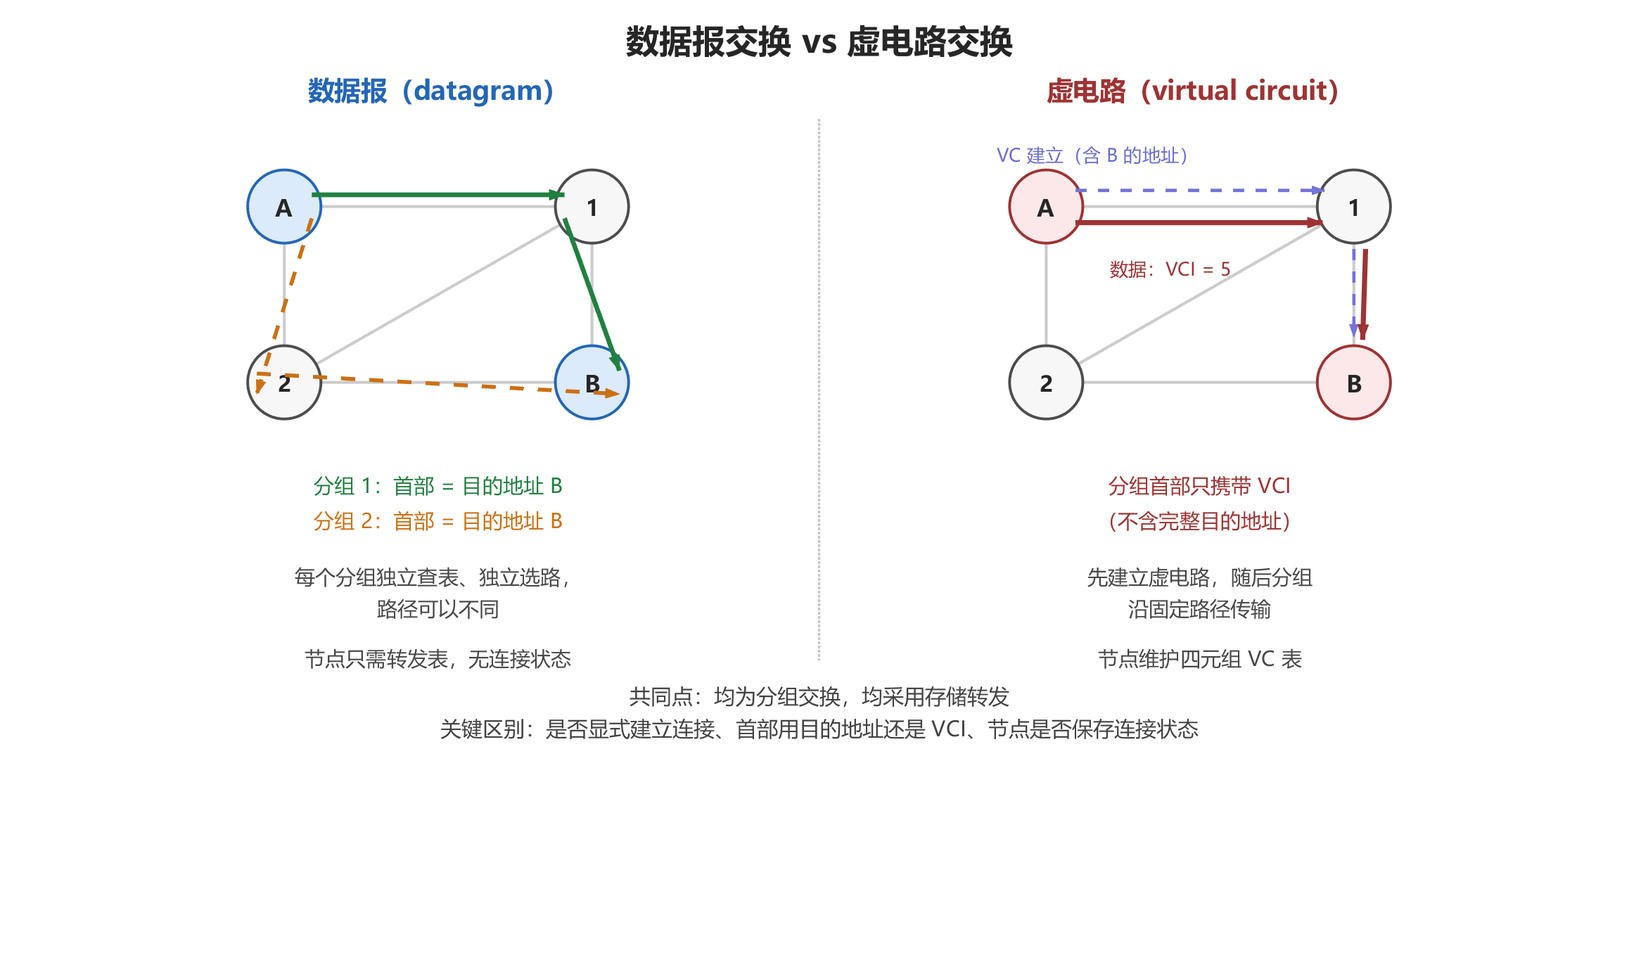
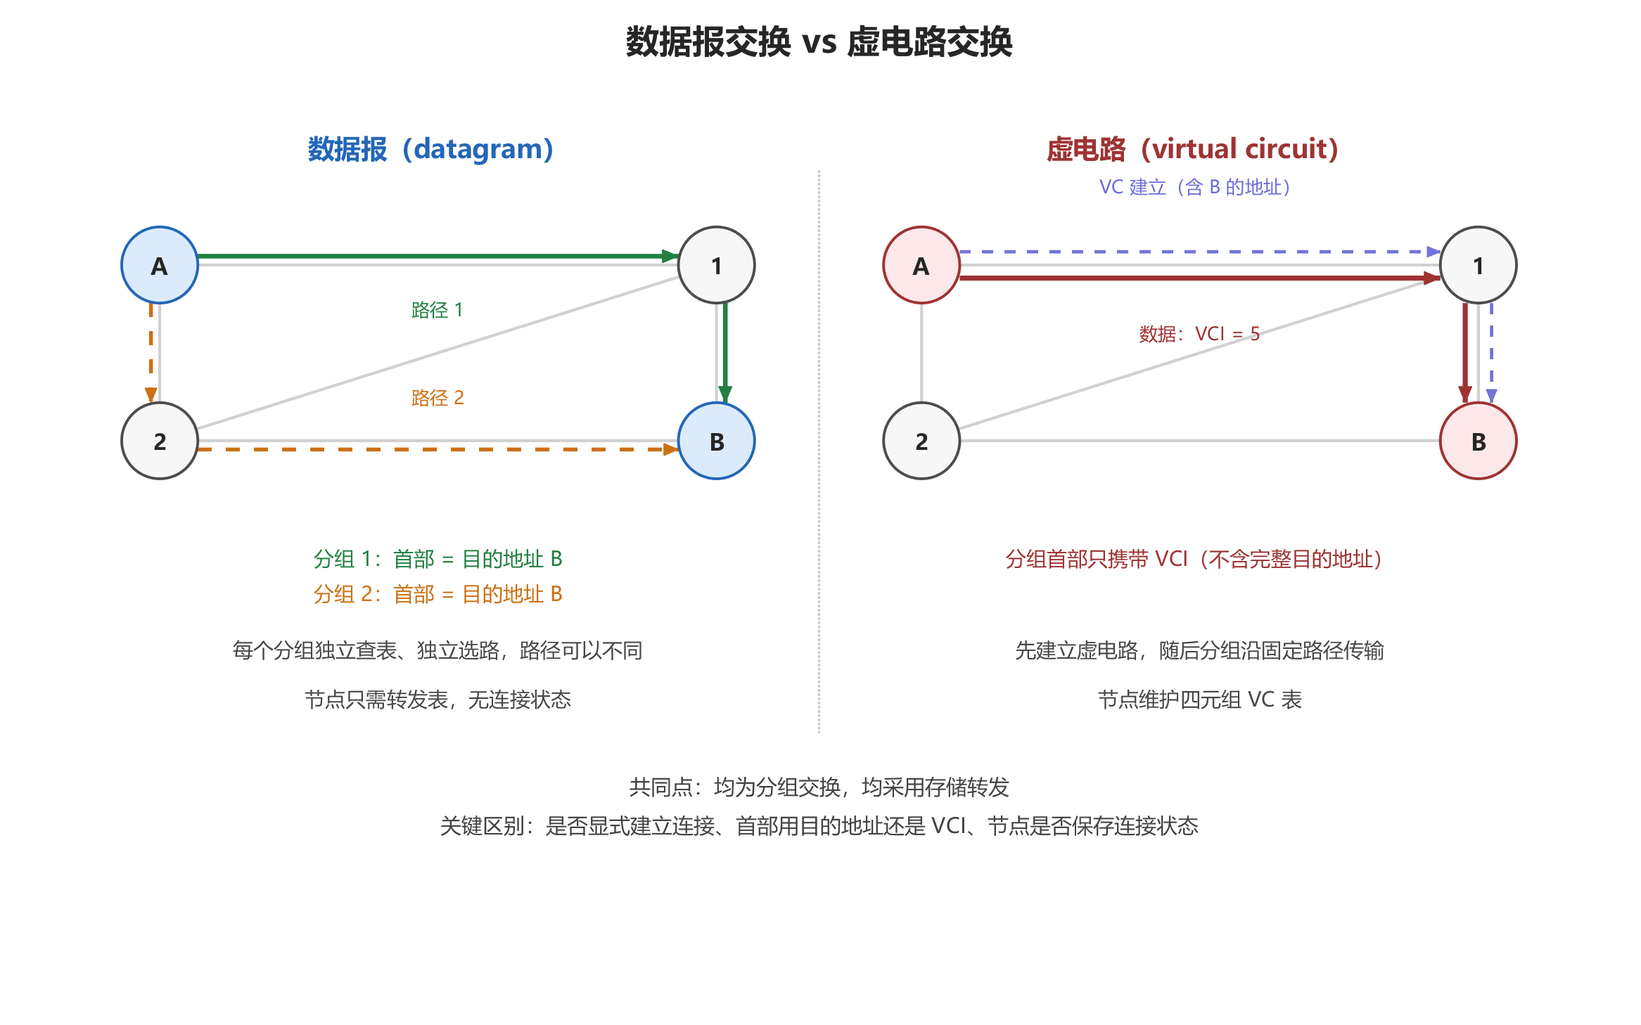
style: orthogonalize example flowchart arrows

diff --git a/docs/computer-network-example/figs/src/fig04_datagram_vc.m b/docs/computer-network-example/figs/src/fig04_datagram_vc.m
@@ -1,69 +1,70 @@
 function fig04_datagram_vc
-% 数据报交换 vs 虚电路交换
-[f,ax]=mnewfig(1120,660);
-W=1120;H=660;
+% 数据报交换 vs 虚电路交换（正交对齐版）
+[f,ax]=mnewfig(1120,700);
+W=1120;H=700;
 mtext(ax,W/2,H-26,'数据报交换 vs 虚电路交换','fontsize',17,'fontweight','bold');
 
-r=25;
-% ---------- 左：数据报 ----------
-cxL=300; yT=520; yB=400;
-A=[cxL-105 yT]; N1=[cxL+105 yT]; N2=[cxL-105 yB]; Bn=[cxL+105 yB];
-mtext(ax,cxL,600,'数据报（datagram）','fontsize',13.5,'fontweight','bold','color',[0.14 0.40 0.72]);
-mlink(ax,A(1),A(2),N1(1),N1(2),'color',[0.80 0.80 0.80],'linewidth',1.5);
-mlink(ax,N2(1),N2(2),Bn(1),Bn(2),'color',[0.80 0.80 0.80],'linewidth',1.5);
-mlink(ax,A(1),A(2),N2(1),N2(2),'color',[0.80 0.80 0.80],'linewidth',1.5);
-mlink(ax,N1(1),N1(2),Bn(1),Bn(2),'color',[0.80 0.80 0.80],'linewidth',1.5);
-mlink(ax,N1(1),N1(2),N2(1),N2(2),'color',[0.80 0.80 0.80],'linewidth',1.5);
+r=26;
+% 统一的四节点矩形布局：上排 A--1 / M1，下排 2--B / M2
+xl=110; xr=490; yt=520; yb=400;
+
+% ================= 左：数据报 =================
+mtext(ax,(xl+xr)/2,600,'数据报（datagram）','fontsize',13.5,'fontweight','bold','color',[0.14 0.40 0.72]);
+A=[xl yt]; N1=[xr yt]; N2=[xl yb]; Bn=[xr yb];
+% 物理链路（浅灰）
+mlink(ax,A(1),A(2),N1(1),N1(2),'color',[0.82 0.82 0.82],'linewidth',1.5);
+mlink(ax,A(1),A(2),N2(1),N2(2),'color',[0.82 0.82 0.82],'linewidth',1.5);
+mlink(ax,N2(1),N2(2),Bn(1),Bn(2),'color',[0.82 0.82 0.82],'linewidth',1.5);
+mlink(ax,N1(1),N1(2),Bn(1),Bn(2),'color',[0.82 0.82 0.82],'linewidth',1.5);
+mlink(ax,N1(1),N1(2),N2(1),N2(2),'color',[0.82 0.82 0.82],'linewidth',1.5);
+% 路径 1：A -> 1 -> B（沿链路，圆弧端点）
+mcedge(ax,A,N1,r,r,'color',[0.13 0.50 0.25],'linewidth',2.4,'head',11,'offset',6);
+mcedge(ax,N1,Bn,r,r,'color',[0.13 0.50 0.25],'linewidth',2.4,'head',11,'offset',6);
+% 路径 2：A -> 2 -> B（沿链路，反向偏移）
+mcedge(ax,A,N2,r,r,'color',[0.80 0.44 0.08],'linewidth',2.0,'head',10,'dash','--','offset',-6);
+mcedge(ax,N2,Bn,r,r,'color',[0.80 0.44 0.08],'linewidth',2.0,'head',10,'dash','--','offset',-6);
 mnode(ax,A(1),A(2),r,'A','facecolor',[0.86 0.92 0.99],'edgecolor',[0.14 0.40 0.72]);
 mnode(ax,Bn(1),Bn(2),r,'B','facecolor',[0.86 0.92 0.99],'edgecolor',[0.14 0.40 0.72]);
 mnode(ax,N1(1),N1(2),r,'1','facecolor',[0.97 0.97 0.97],'fontsize',11);
 mnode(ax,N2(1),N2(2),r,'2','facecolor',[0.97 0.97 0.97],'fontsize',11);
-% 路径1：A-1-B（实线绿）
-marrow(ax,A(1)+r*0.75,A(2)+8,N1(1)-r*0.75,N1(2)+8,'color',[0.13 0.50 0.25],'linewidth',2.4,'head',11);
-marrow(ax,N1(1)-r*0.75,N1(2)-8,Bn(1)+r*0.75,Bn(2)+8,'color',[0.13 0.50 0.25],'linewidth',2.4,'head',11);
-% 路径2：A-2-B（虚线橙）
-marrow(ax,A(1)+r*0.75,A(2)-8,N2(1)-r*0.75,N2(2)-8,'color',[0.80 0.44 0.08],'linewidth',2.0,'head',10,'dash','--');
-marrow(ax,N2(1)-r*0.75,N2(2)+6,Bn(1)+r*0.75,Bn(2)-8,'color',[0.80 0.44 0.08],'linewidth',2.0,'head',10,'dash','--');
+mtext(ax,(xl+xr)/2,yt-30,'路径 1','fontsize',9.5,'color',[0.13 0.50 0.25]);
+mtext(ax,(xl+xr)/2,yb+30,'路径 2','fontsize',9.5,'color',[0.80 0.44 0.08]);
 
-mtext(ax,cxL,330,'分组 1：首部 = 目的地址 B','fontsize',10.5,'color',[0.13 0.50 0.25]);
-mtext(ax,cxL,306,'分组 2：首部 = 目的地址 B','fontsize',10.5,'color',[0.80 0.44 0.08]);
-mtext(ax,cxL,268,'每个分组独立查表、独立选路，','fontsize',10.5,'color',[0.28 0.28 0.28]);
-mtext(ax,cxL,246,'路径可以不同','fontsize',10.5,'color',[0.28 0.28 0.28]);
-mtext(ax,cxL,212,'节点只需转发表，无连接状态','fontsize',10.5,'color',[0.28 0.28 0.28]);
+mtext(ax,300,320,'分组 1：首部 = 目的地址 B','fontsize',10.5,'color',[0.13 0.50 0.25]);
+mtext(ax,300,296,'分组 2：首部 = 目的地址 B','fontsize',10.5,'color',[0.80 0.44 0.08]);
+mtext(ax,300,258,'每个分组独立查表、独立选路，路径可以不同','fontsize',10.5,'color',[0.28 0.28 0.28]);
+mtext(ax,300,224,'节点只需转发表，无连接状态','fontsize',10.5,'color',[0.28 0.28 0.28]);
 
-% ---------- 右：虚电路 ----------
-cx2=820;
-A2=[cx2-105 yT]; M1=[cx2+105 yT]; M2=[cx2-105 yB]; B2=[cx2+105 yB];
-mtext(ax,cx2,600,'虚电路（virtual circuit）','fontsize',13.5,'fontweight','bold','color',[0.62 0.20 0.20]);
-mlink(ax,A2(1),A2(2),M1(1),M1(2),'color',[0.80 0.80 0.80],'linewidth',1.5);
-mlink(ax,M2(1),M2(2),B2(1),B2(2),'color',[0.80 0.80 0.80],'linewidth',1.5);
-mlink(ax,A2(1),A2(2),M2(1),M2(2),'color',[0.80 0.80 0.80],'linewidth',1.5);
-mlink(ax,M1(1),M1(2),B2(1),B2(2),'color',[0.80 0.80 0.80],'linewidth',1.5);
-mlink(ax,M1(1),M1(2),M2(1),M2(2),'color',[0.80 0.80 0.80],'linewidth',1.5);
+% ================= 右：虚电路 =================
+xl2=630; xr2=1010;
+mtext(ax,(xl2+xr2)/2,600,'虚电路（virtual circuit）','fontsize',13.5,'fontweight','bold','color',[0.62 0.20 0.20]);
+A2=[xl2 yt]; M1=[xr2 yt]; M2=[xl2 yb]; B2=[xr2 yb];
+mlink(ax,A2(1),A2(2),M1(1),M1(2),'color',[0.82 0.82 0.82],'linewidth',1.5);
+mlink(ax,A2(1),A2(2),M2(1),M2(2),'color',[0.82 0.82 0.82],'linewidth',1.5);
+mlink(ax,M2(1),M2(2),B2(1),B2(2),'color',[0.82 0.82 0.82],'linewidth',1.5);
+mlink(ax,M1(1),M1(2),B2(1),B2(2),'color',[0.82 0.82 0.82],'linewidth',1.5);
+mlink(ax,M1(1),M1(2),M2(1),M2(2),'color',[0.82 0.82 0.82],'linewidth',1.5);
+% VC 建立：A->1 上方虚线；1->B 沿链路
+mcedge(ax,A2,M1,r,r,'color',[0.45 0.45 0.85],'linewidth',1.7,'head',9,'dash','--','offset',9);
+mcedge(ax,M1,B2,r,r,'color',[0.45 0.45 0.85],'linewidth',1.7,'head',9,'dash','--','offset',9);
+% 数据：A->1 下方实线；1->B 沿链路另一侧
+mcedge(ax,A2,M1,r,r,'color',[0.62 0.20 0.20],'linewidth',2.6,'head',11,'offset',-9);
+mcedge(ax,M1,B2,r,r,'color',[0.62 0.20 0.20],'linewidth',2.6,'head',11,'offset',-9);
 mnode(ax,A2(1),A2(2),r,'A','facecolor',[0.99 0.91 0.91],'edgecolor',[0.62 0.20 0.20]);
 mnode(ax,B2(1),B2(2),r,'B','facecolor',[0.99 0.91 0.91],'edgecolor',[0.62 0.20 0.20]);
 mnode(ax,M1(1),M1(2),r,'1','facecolor',[0.97 0.97 0.97],'fontsize',11);
 mnode(ax,M2(1),M2(2),r,'2','facecolor',[0.97 0.97 0.97],'fontsize',11);
-% VC 建立（上方虚线）
-marrow(ax,A2(1)+r*0.8,A2(2)+11,M1(1)-r*0.8,M1(2)+11,'color',[0.45 0.45 0.85],'linewidth',1.7,'head',9,'dash','--');
-marrow(ax,M1(1),M1(2)-r-4,B2(1),B2(2)+r+6,'color',[0.45 0.45 0.85],'linewidth',1.7,'head',9,'dash','--');
-% 数据（下方实线）
-marrow(ax,A2(1)+r*0.8,A2(2)-11,M1(1)-r*0.85,M1(2)-11,'color',[0.62 0.20 0.20],'linewidth',2.6,'head',11);
-marrow(ax,M1(1)+8,M1(2)-r-4,B2(1)+6,B2(2)+r+4,'color',[0.62 0.20 0.20],'linewidth',2.6,'head',11);
-mtext(ax,cx2-70,556,'VC 建立（含 B 的地址）','fontsize',9.5,'color',[0.42 0.42 0.85]);
-mtext(ax,cx2-20,478,'数据：VCI = 5','fontsize',9.5,'color',[0.62 0.20 0.20]);
+mtext(ax,(xl2+xr2)/2,yt+54,'VC 建立（含 B 的地址）','fontsize',9.5,'color',[0.42 0.42 0.85]);
+mtext(ax,(xl2+xr2)/2,yt-46,'数据：VCI = 5','fontsize',9.5,'color',[0.62 0.20 0.20]);
 
-mtext(ax,cx2,330,'分组首部只携带 VCI','fontsize',10.5,'color',[0.62 0.20 0.20]);
-mtext(ax,cx2,306,'（不含完整目的地址）','fontsize',10.5,'color',[0.62 0.20 0.20]);
-mtext(ax,cx2,268,'先建立虚电路，随后分组','fontsize',10.5,'color',[0.28 0.28 0.28]);
-mtext(ax,cx2,246,'沿固定路径传输','fontsize',10.5,'color',[0.28 0.28 0.28]);
-mtext(ax,cx2,212,'节点维护四元组 VC 表','fontsize',10.5,'color',[0.28 0.28 0.28]);
+mtext(ax,820,320,'分组首部只携带 VCI（不含完整目的地址）','fontsize',10.5,'color',[0.62 0.20 0.20]);
+mtext(ax,820,258,'先建立虚电路，随后分组沿固定路径传输','fontsize',10.5,'color',[0.28 0.28 0.28]);
+mtext(ax,820,224,'节点维护四元组 VC 表','fontsize',10.5,'color',[0.28 0.28 0.28]);
 
-% 中间分隔
-plot(ax,[W/2 W/2],[210 580],':','Color',[0.78 0.78 0.78],'LineWidth',1.2);
-mtext(ax,W/2,186,'共同点：均为分组交换，均采用存储转发', ...
-  'fontsize',10.8,'color',[0.26 0.26 0.26]);
-mtext(ax,W/2,164,'关键区别：是否显式建立连接、首部用目的地址还是 VCI、节点是否保存连接状态', ...
+% 分隔与结论
+plot(ax,[W/2 W/2],[200 585],':','Color',[0.80 0.80 0.80],'LineWidth',1.2);
+mtext(ax,W/2,164,'共同点：均为分组交换，均采用存储转发','fontsize',10.8,'color',[0.26 0.26 0.26]);
+mtext(ax,W/2,138,'关键区别：是否显式建立连接、首部用目的地址还是 VCI、节点是否保存连接状态', ...
   'fontsize',10.8,'color',[0.26 0.26 0.26]);
 msave(f,'fig04_datagram_vc.png');
 end

diff --git a/docs/computer-network-example/figs/src/fig29_flow.m b/docs/computer-network-example/figs/src/fig29_flow.m
@@ -1,54 +1,81 @@
 function fig29_flow
-% CSMA/CD 与 CSMA/CA 流程对比
-[f,ax]=mnewfig(1100,780);
-W=1100;H=780;
+% CSMA/CD 与 CSMA/CA 流程对比（严格网格对齐版）
+[f,ax]=mnewfig(1180,840);
+W=1180;H=840;
 mtext(ax,W/2,H-26,'CSMA/CD 与 CSMA/CA 流程对比','fontsize',17,'fontweight','bold');
-flowcd(ax,80); flowca(ax,600);
+
+Y.start=720; Y.d1=630; Y.branch=540; Y.d2=448; Y.end=358; Y.extra=268;
+
+flowcd(ax,300,Y);
+flowca(ax,860,Y);
+
 msave(f,'fig29_flow.png');
 end
 
-function flowcd(ax,x0)
-mtext(ax,x0+200,700,'CSMA/CD（有线以太网）','fontsize',12.5,'fontweight','bold','color',[0.14 0.40 0.72]);
-cx=x0+200;
-mbox(ax,cx-85,640,170,40,'有帧要发送','fontsize',10.5);
-mdiamond(ax,cx,575,190,70,'侦听：信道空闲？','fontsize',10);
-mbox(ax,cx+80,485,160,40,'等候至空闲','fontsize',10);
-mbox(ax,cx-150,485,140,40,'立即发送','fontsize',10);
-mdiamond(ax,cx,415,190,70,'检测到冲突？','fontsize',10);
-mbox(ax,cx-150,330,150,40,'发送完成','fontsize',10);
-mbox(ax,cx+90,330,170,40,'发干扰信号并停止','fontsize',9.5,'facecolor',[0.99 0.90 0.90],'edgecolor',[0.70 0.25 0.25]);
-mdiamond(ax,cx+90,255,170,64,'重试 < 16？','fontsize',9.8);
-mbox(ax,cx+90,175,170,40,'指数回退，重新侦听','fontsize',9.5,'facecolor',[0.99 0.92 0.86],'edgecolor',[0.62 0.45 0.20]);
-mbox(ax,cx+240,255,110,40,'放弃','fontsize',10);
-marrow(ax,cx,640,cx,610,'color',[0.4 0.4 0.4],'linewidth',1.3);
-marrow(ax,cx,540,cx+80,525,'color',[0.4 0.4 0.4],'linewidth',1.3);
-marrow(ax,cx-95,575,cx-150,525,'color',[0.4 0.4 0.4],'linewidth',1.3);
-marrow(ax,cx-80,485,cx,450,'color',[0.4 0.4 0.4],'linewidth',1.3);
-marrow(ax,cx+80,485,cx,450,'color',[0.4 0.4 0.4],'linewidth',1.3);
-marrow(ax,cx-95,415,cx-150,370,'color',[0.4 0.4 0.4],'linewidth',1.3);
-marrow(ax,cx+95,415,cx+90,370,'color',[0.4 0.4 0.4],'linewidth',1.3);
-marrow(ax,cx+90,310,cx+90,287,'color',[0.4 0.4 0.4],'linewidth',1.3);
-marrow(ax,cx+90,223,cx+90,195,'color',[0.4 0.4 0.4],'linewidth',1.3);
-marrow(ax,cx+175,255,cx+240,255,'color',[0.4 0.4 0.4],'linewidth',1.3);
+function flowcd(ax,c,Y)
+mtext(ax,c,768,'CSMA/CD（有线以太网）','fontsize',12.5,'fontweight','bold','color',[0.14 0.40 0.72]);
+L=c-140; R=c+140;
+mbox(ax,c-85,Y.start-22,170,44,'有帧要发送','fontsize',10.5,'fontweight','bold');
+mdiamond(ax,c,Y.d1,240,80,'侦听：信道空闲？','fontsize',10);
+mbox(ax,L-80,Y.branch-22,160,44,'立即发送','fontsize',10);
+mbox(ax,R-85,Y.branch-22,170,44,'等候至空闲','fontsize',10);
+mdiamond(ax,c,Y.d2,240,80,'检测到冲突？','fontsize',10);
+mbox(ax,L-80,Y.end-22,160,44,'发送完成','fontsize',10);
+mbox(ax,R-95,Y.end-22,190,44,'发干扰信号并停止','fontsize',9.5, ...
+  'facecolor',[0.99 0.90 0.90],'edgecolor',[0.70 0.25 0.25]);
+mdiamond(ax,R,Y.extra,200,72,'重试 < 16？','fontsize',9.8);
+mbox(ax,R+130,Y.extra-22,140,44,'放弃','fontsize',10);
+mbox(ax,R-95,Y.extra-120,190,44,'指数回退，重新侦听','fontsize',9.5, ...
+  'facecolor',[0.99 0.92 0.86],'edgecolor',[0.62 0.45 0.20]);
+
+melbow(ax,[c Y.start-22; c Y.d1+40],'color',[0.4 0.4 0.4],'linewidth',1.5);
+melbow(ax,[c Y.d1-40; c Y.d2+40],'color',[0.4 0.4 0.4],'linewidth',1.5);
+melbow(ax,[c-120 Y.d1; L Y.d1; L Y.branch+22],'color',[0.4 0.4 0.4],'linewidth',1.5);
+melbow(ax,[c+120 Y.d1; R Y.d1; R Y.branch+22],'color',[0.4 0.4 0.4],'linewidth',1.5);
+melbow(ax,[L Y.branch-22; L Y.d2; c-120 Y.d2],'color',[0.4 0.4 0.4],'linewidth',1.5);
+melbow(ax,[R Y.branch-22; R Y.d2; c+120 Y.d2],'color',[0.4 0.4 0.4],'linewidth',1.5);
+melbow(ax,[c-120 Y.d2; L Y.d2; L Y.end+22],'color',[0.4 0.4 0.4],'linewidth',1.5);
+melbow(ax,[c+120 Y.d2; R Y.d2; R Y.end+22],'color',[0.4 0.4 0.4],'linewidth',1.5);
+% 重试判定：是 -> 指数回退；否 -> 放弃
+melbow(ax,[R Y.end-22; R Y.extra+36],'color',[0.4 0.4 0.4],'linewidth',1.5);
+melbow(ax,[R+100 Y.extra; R+130 Y.extra],'color',[0.4 0.4 0.4],'linewidth',1.5);
+melbow(ax,[R Y.extra-36; R Y.extra-98],'color',[0.4 0.4 0.4],'linewidth',1.5);
+
+mtext(ax,c-150,Y.d1+16,'空闲','fontsize',9.5,'color',[0.20 0.52 0.32]);
+mtext(ax,c+150,Y.d1+16,'忙','fontsize',9.5,'color',[0.80 0.44 0.10]);
+mtext(ax,c-150,Y.d2+18,'否','fontsize',9.5);
+mtext(ax,c+150,Y.d2+18,'是','fontsize',9.5);
+mtext(ax,R+114,Y.extra+18,'否','fontsize',9.5);
+mtext(ax,R+14,Y.extra-66,'是','fontsize',9.5,'halign','left');
 end
 
-function flowca(ax,x0)
-mtext(ax,x0+200,700,'CSMA/CA（无线局域网）','fontsize',12.5,'fontweight','bold','color',[0.62 0.20 0.20]);
-cx=x0+200;
-mbox(ax,cx-85,640,170,40,'有帧要发送','fontsize',10.5);
-mdiamond(ax,cx,575,200,70,'侦听空闲 DIFS？','fontsize',10);
-mbox(ax,cx+90,485,160,40,'随机回退','fontsize',10,'facecolor',[0.99 0.92 0.86],'edgecolor',[0.62 0.45 0.20]);
-mbox(ax,cx-150,485,140,40,'发送整帧','fontsize',10);
-mdiamond(ax,cx,415,190,70,'收到 ACK？','fontsize',10);
-mbox(ax,cx-150,330,150,40,'完成','fontsize',10);
-mbox(ax,cx+90,330,180,40,'扩大回退范围重试','fontsize',9.5,'facecolor',[0.99 0.90 0.90],'edgecolor',[0.70 0.25 0.25]);
-mtext(ax,cx,290,'（可选）先交换 RTS/CTS','fontsize',9.5,'color',[0.62 0.20 0.20]);
-mtext(ax,cx,266,'收到 CTS 的邻近节点设置 NAV','fontsize',9,'color',[0.40 0.40 0.40]);
-marrow(ax,cx,640,cx,610,'color',[0.4 0.4 0.4],'linewidth',1.3);
-marrow(ax,cx,540,cx+90,525,'color',[0.4 0.4 0.4],'linewidth',1.3);
-marrow(ax,cx-100,575,cx-150,525,'color',[0.4 0.4 0.4],'linewidth',1.3);
-marrow(ax,cx-80,485,cx,450,'color',[0.4 0.4 0.4],'linewidth',1.3);
-marrow(ax,cx+90,485,cx,450,'color',[0.4 0.4 0.4],'linewidth',1.3);
-marrow(ax,cx-95,415,cx-150,370,'color',[0.4 0.4 0.4],'linewidth',1.3);
-marrow(ax,cx+95,415,cx+90,370,'color',[0.4 0.4 0.4],'linewidth',1.3);
+function flowca(ax,c,Y)
+mtext(ax,c,768,'CSMA/CA（无线局域网）','fontsize',12.5,'fontweight','bold','color',[0.62 0.20 0.20]);
+L=c-140; R=c+140;
+mbox(ax,c-85,Y.start-22,170,44,'有帧要发送','fontsize',10.5,'fontweight','bold');
+mdiamond(ax,c,Y.d1,250,80,'侦听空闲 DIFS？','fontsize',10);
+mbox(ax,L-80,Y.branch-22,160,44,'发送整帧','fontsize',10);
+mbox(ax,R-85,Y.branch-22,170,44,'随机回退','fontsize',10, ...
+  'facecolor',[0.99 0.92 0.86],'edgecolor',[0.62 0.45 0.20]);
+mdiamond(ax,c,Y.d2,240,80,'收到 ACK？','fontsize',10);
+mbox(ax,L-80,Y.end-22,160,44,'完成','fontsize',10);
+mbox(ax,R-95,Y.end-22,190,44,'扩大回退范围重试','fontsize',9.5, ...
+  'facecolor',[0.99 0.90 0.90],'edgecolor',[0.70 0.25 0.25]);
+
+melbow(ax,[c Y.start-22; c Y.d1+40],'color',[0.4 0.4 0.4],'linewidth',1.5);
+melbow(ax,[c Y.d1-40; c Y.d2+40],'color',[0.4 0.4 0.4],'linewidth',1.5);
+melbow(ax,[c-125 Y.d1; L Y.d1; L Y.branch+22],'color',[0.4 0.4 0.4],'linewidth',1.5);
+melbow(ax,[c+125 Y.d1; R Y.d1; R Y.branch+22],'color',[0.4 0.4 0.4],'linewidth',1.5);
+melbow(ax,[L Y.branch-22; L Y.d2; c-120 Y.d2],'color',[0.4 0.4 0.4],'linewidth',1.5);
+melbow(ax,[R Y.branch-22; R Y.d2; c+120 Y.d2],'color',[0.4 0.4 0.4],'linewidth',1.5);
+melbow(ax,[c-120 Y.d2; L Y.d2; L Y.end+22],'color',[0.4 0.4 0.4],'linewidth',1.5);
+melbow(ax,[c+120 Y.d2; R Y.d2; R Y.end+22],'color',[0.4 0.4 0.4],'linewidth',1.5);
+
+mtext(ax,c-150,Y.d1+16,'是','fontsize',9.5,'color',[0.20 0.52 0.32]);
+mtext(ax,c+150,Y.d1+16,'否','fontsize',9.5,'color',[0.80 0.44 0.10]);
+mtext(ax,c-150,Y.d2+18,'是','fontsize',9.5);
+mtext(ax,c+150,Y.d2+18,'否','fontsize',9.5);
+
+mtext(ax,c,Y.end-128,'（可选）先交换 RTS/CTS','fontsize',9.5,'color',[0.62 0.20 0.20]);
+mtext(ax,c,Y.end-152,'收到 CTS 的邻近节点设置 NAV','fontsize',9,'color',[0.40 0.40 0.40]);
 end

diff --git a/docs/computer-network-example/figs/src/fig28_switch.m b/docs/computer-network-example/figs/src/fig28_switch.m
@@ -1,48 +1,57 @@
 function fig28_switch
-% 交换机自学习与帧转发（清晰分支布局）
-[f,ax]=mnewfig(980,760);
-W=980;H=760;
-mtext(ax,W/2,H-26,'以太网交换机：自学习与帧转发','fontsize',17,'fontweight','bold');
+% 交换机自学习与帧转发（严格网格对齐版）
+[f,ax]=mnewfig(1080,900);
+W=1080;H=900;
+mtext(ax,W/2,H-28,'以太网交换机：自学习与帧转发','fontsize',17,'fontweight','bold');
 
-cx=420;
-% 主流程
-mbox(ax,cx-100,640,200,46,'收到一帧','fontsize',11.5,'fontweight','bold');
-mbox(ax,cx-150,560,300,46,'学习：源 MAC 与 输入端口','fontsize',11, ...
+% 列坐标
+cMain=470;   % 主列
+cLeft=250;   % 左侧“是”分支列
+cDiscard=100;   % 与第二判定框左顶点对齐
+cRight=820;  % 右侧“否”分支列
+% 行坐标（自下而上）
+yStart=800; yLearn=700; yDecide=590; yLookup=470;
+yDecide2=360; yEnd=240; yFlood=470;
+
+% 节点
+mbox(ax,cMain-110,yStart-23,220,46,'收到一帧','fontsize',11.5,'fontweight','bold');
+mbox(ax,cMain-170,yLearn-23,340,46,'学习：源 MAC 与 输入端口','fontsize',11, ...
   'facecolor',[0.86 0.94 0.86],'edgecolor',[0.20 0.52 0.32]);
-mdiamond(ax,cx,480,230,78,'转发表中有目的 MAC？','fontsize',10.8);
-
-% 是分支（左下）
-mbox(ax,cx-210,360,180,46,'查表得到输出端口','fontsize',10.5);
-mdiamond(ax,cx-120,280,200,72,'输出端口 = 输入端口？','fontsize',9.8);
-mbox(ax,cx-340,200,120,44,'丢弃','fontsize',10.5, ...
+mdiamond(ax,cMain,yDecide,260,84,'转发表中有目的 MAC？','fontsize',10.5);
+mbox(ax,cLeft-110,yLookup-23,220,46,'查表得到输出端口','fontsize',10.5);
+mdiamond(ax,cLeft,yDecide2,300,86,'输出端口 = 输入端口？','fontsize',9.8);
+mbox(ax,cDiscard-70,yEnd-22,140,44,'丢弃','fontsize',10.5, ...
   'facecolor',[0.97 0.90 0.90],'edgecolor',[0.70 0.25 0.25]);
-mbox(ax,cx-140,200,150,44,'从该端口转发','fontsize',10.5, ...
+mbox(ax,cLeft+150-90,yEnd-22,180,44,'从该端口转发','fontsize',10.5, ...
   'facecolor',[0.86 0.94 0.86],'edgecolor',[0.20 0.52 0.32]);
-
-% 否分支（右侧）
-mbox(ax,cx+150,420,190,46,'洪泛：除输入端口外','fontsize',10.2, ...
+mbox(ax,cRight-120,yFlood-23,240,46,'洪泛：除输入端口外','fontsize',10.2, ...
   'facecolor',[0.99 0.92 0.86],'edgecolor',[0.62 0.45 0.20]);
-mtext(ax,cx+245,396,'向所有其它端口转发','fontsize',9.5,'color',[0.55 0.40 0.15]);
+mtext(ax,cRight,yFlood-52,'向所有其它端口转发','fontsize',9.5,'color',[0.55 0.40 0.15]);
 
-% 连线
-marrow(ax,cx,640,cx,608,'color',[0.40 0.40 0.40],'linewidth',1.5);
-marrow(ax,cx,560,cx,520,'color',[0.40 0.40 0.40],'linewidth',1.5);
-% 是
-marrow(ax,cx-115,465,cx-210,408,'color',[0.40 0.40 0.40],'linewidth',1.5);
-mtext(ax,cx-190,452,'是','fontsize',10,'color',[0.20 0.52 0.32]);
-% 否
-marrow(ax,cx+115,465,cx+190,468,'color',[0.40 0.40 0.40],'linewidth',1.5);
-mtext(ax,cx+150,492,'否','fontsize',10,'color',[0.80 0.44 0.10]);
-% 查表→判定
-marrow(ax,cx-120,360,cx-120,318,'color',[0.40 0.40 0.40],'linewidth',1.5);
-% 判定→丢弃/转发
-marrow(ax,cx-210,265,cx-280,245,'color',[0.40 0.40 0.40],'linewidth',1.4);
-mtext(ax,cx-270,270,'是','fontsize',9.5);
-marrow(ax,cx-30,265,cx-70,245,'color',[0.40 0.40 0.40],'linewidth',1.4);
-mtext(ax,cx-50,272,'否','fontsize',9.5);
+% 连线（全部正交）
+% 收到一帧 -> 学习
+melbow(ax,[cMain yStart-23; cMain yLearn+23],'color',[0.40 0.40 0.40],'linewidth',1.6);
+% 学习 -> 判定
+melbow(ax,[cMain yLearn-23; cMain yDecide+42],'color',[0.40 0.40 0.40],'linewidth',1.6);
+% 判定“是” -> 左列 -> 查表
+melbow(ax,[cMain-130 yDecide; cLeft yDecide; cLeft yLookup+23],'color',[0.40 0.40 0.40],'linewidth',1.6);
+% 判定“否” -> 右列 -> 洪泛
+melbow(ax,[cMain+130 yDecide; cRight yDecide; cRight yFlood+23],'color',[0.40 0.40 0.40],'linewidth',1.6);
+% 查表 -> 第二判定
+melbow(ax,[cLeft yLookup-23; cLeft yDecide2+40],'color',[0.40 0.40 0.40],'linewidth',1.6);
+% 第二判定“是” -> 丢弃
+melbow(ax,[cLeft-150 yDecide2; cDiscard yDecide2; cDiscard yEnd+22],'color',[0.40 0.40 0.40],'linewidth',1.5);
+% 第二判定“否” -> 转发
+melbow(ax,[cLeft+150 yDecide2; cLeft+150 yEnd+22],'color',[0.40 0.40 0.40],'linewidth',1.5);
+
+% 分支标注
+mtext(ax,cMain-150,yDecide+14,'是','fontsize',10,'color',[0.20 0.52 0.32]);
+mtext(ax,cMain+150,yDecide+14,'否','fontsize',10,'color',[0.80 0.44 0.10]);
+mtext(ax,cLeft-182,yDecide2+18,'是','fontsize',9.5);
+mtext(ax,cLeft+182,yDecide2+18,'否','fontsize',9.5);
 
 % 说明
-mtext(ax,W/2,110,'表项带时间戳（软状态），超时删除；未知目的地址洪泛；','fontsize',10.2,'color',[0.30 0.30 0.30]);
-mtext(ax,W/2,86,'交换机透明、即插即用；同时支持多个端口并行转发。','fontsize',10.2,'color',[0.30 0.30 0.30]);
+mtext(ax,W/2,150,'表项带时间戳（软状态），超时删除；未知目的地址洪泛；','fontsize',10.4,'color',[0.30 0.30 0.30]);
+mtext(ax,W/2,124,'交换机透明、即插即用；同时支持多个端口并行转发。','fontsize',10.4,'color',[0.30 0.30 0.30]);
 msave(f,'fig28_switch.png');
 end

diff --git a/docs/computer-network-example/figs/tools/mcedge.m b/docs/computer-network-example/figs/tools/mcedge.m
@@ -1,0 +1,22 @@
+function h = mcedge(ax,p1,p2,r1,r2,varargin)
+% 沿两个圆心的连线绘制箭头：起点、终点均落在圆周上，可整体垂直偏移
+col=[0.40 0.40 0.40]; lw=1.5; hs=9; dash='-'; off=0;
+for i=1:2:numel(varargin)
+  switch lower(varargin{i})
+    case 'color',     col=varargin{i+1};
+    case 'linewidth', lw=varargin{i+1};
+    case 'head',      hs=varargin{i+1};
+    case 'dash',      dash=varargin{i+1};
+    case 'offset',    off=varargin{i+1};
+  end
+end
+d=p2-p1; L=norm(d); u=d/L; nrm=[-u(2) u(1)];
+a=p1+u*r1+nrm*off;
+b=p2-u*r2+nrm*off;
+h=plot(ax,[a(1) b(1)],[a(2) b(2)],dash,'Color',col,'LineWidth',lw);
+ang=atan2(b(2)-a(2),b(1)-a(1));
+base=b-hs*[cos(ang) sin(ang)];
+nn=[-sin(ang) cos(ang)];
+tri=[b; base+nn*hs*0.42; base-nn*hs*0.42];
+patch(ax,tri(:,1),tri(:,2),col,'EdgeColor',col,'LineWidth',0.1);
+end

diff --git a/docs/computer-network-example/figs/tools/melbow.m b/docs/computer-network-example/figs/tools/melbow.m
@@ -1,0 +1,21 @@
+function h = melbow(ax,pts,varargin)
+% 正交折线箭头：pts 为 N x 2 顶点（列：x y），箭头画在最后一段终点
+col=[0.40 0.40 0.40]; lw=1.5; hs=9; dash='-';
+for i=1:2:numel(varargin)
+  switch lower(varargin{i})
+    case 'color',     col=varargin{i+1};
+    case 'linewidth', lw=varargin{i+1};
+    case 'head',      hs=varargin{i+1};
+    case 'dash',      dash=varargin{i+1};
+  end
+end
+h = plot(ax,pts(:,1),pts(:,2),dash,'Color',col,'LineWidth',lw);
+% 箭头
+p1=pts(end-1,:); p2=pts(end,:);
+ang=atan2(p2(2)-p1(2),p2(1)-p1(1));
+tip=p2;
+base=p2-hs*[cos(ang) sin(ang)];
+n=[-sin(ang) cos(ang)];
+tri=[tip; base+n*hs*0.42; base-n*hs*0.42];
+patch(ax,tri(:,1),tri(:,2),col,'EdgeColor',col,'LineWidth',0.1);
+end

diff --git a/docs/computer-network-example/figs/tools/mdiamond.m b/docs/computer-network-example/figs/tools/mdiamond.m
@@ -12,7 +12,7 @@ for i=1:2:numel(varargin)
   end
 end
 p=[x y+hh/2; x+w/2 y; x y-hh/2; x-w/2 y];
-patch(ax,p(:,1),p(:,2),fc,'EdgeColor',ec,'LineWidth',lw);
+patch(ax,p(:,1),p(:,2),fc,'EdgeColor',ec,'LineWidth',lw,'LineJoin','round');
 h=text(ax,x,y,str,'HorizontalAlignment','center','VerticalAlignment','middle', ...
   'FontName','Microsoft YaHei','FontSize',fs,'Color',tc);
 end
